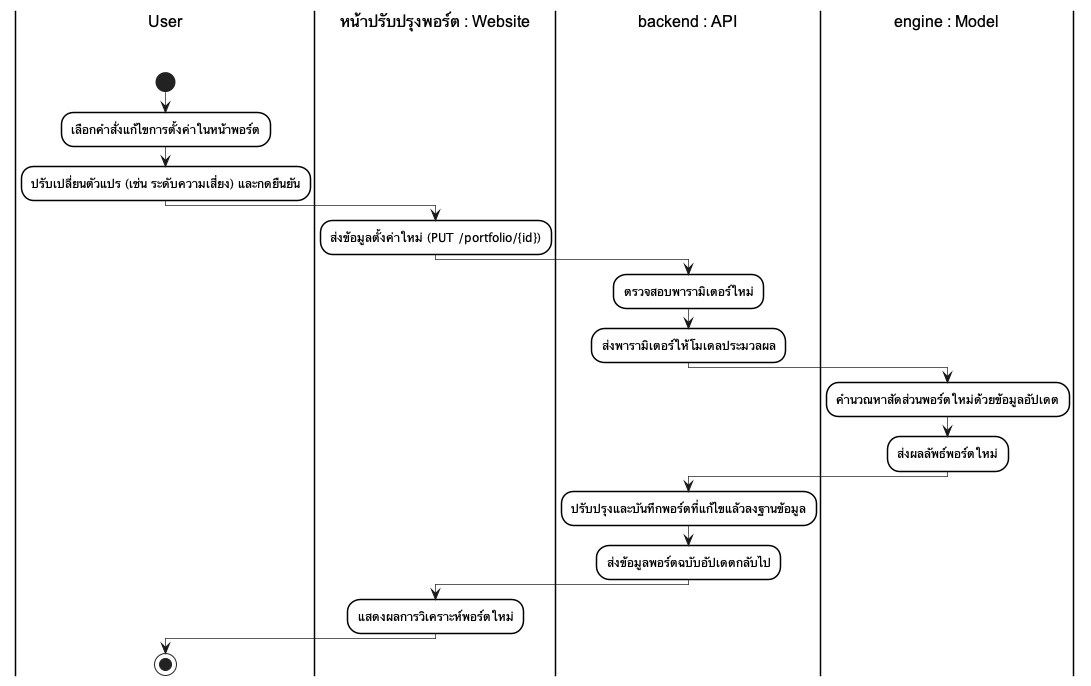
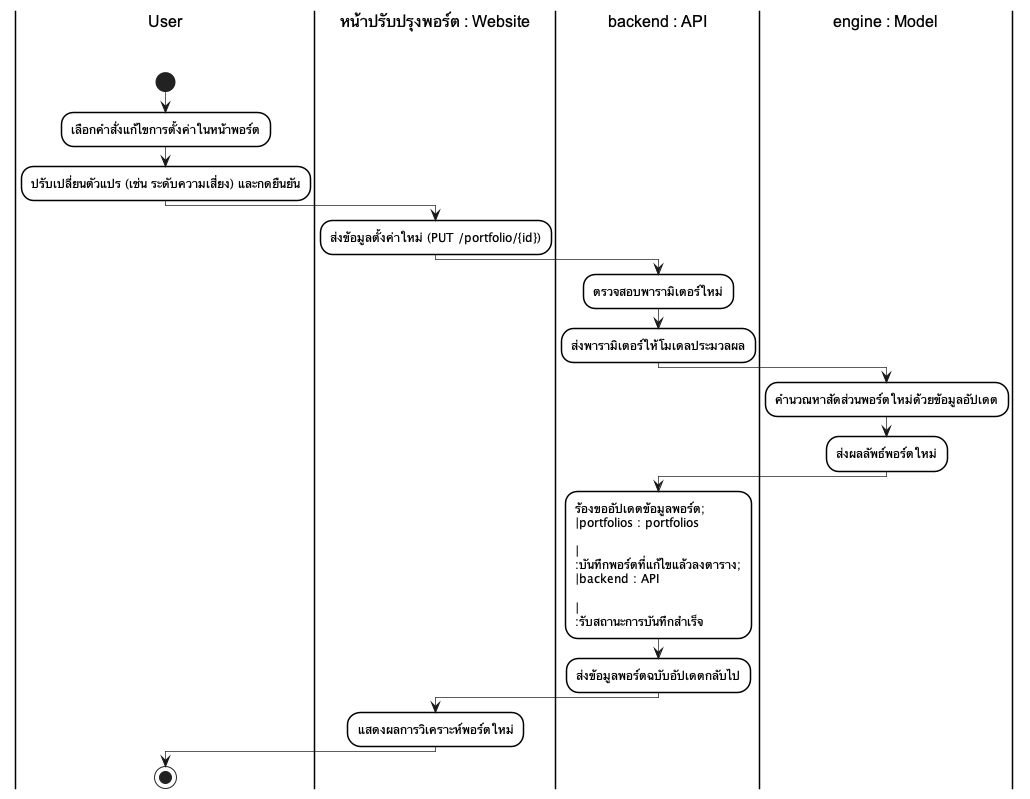
docs: Update diagrams to use specific DB table swimlanes and participants based on new schema

diff --git a/docs/diagrams/plantuml_source/plantuml_activity_diagrams.md b/docs/diagrams/plantuml_source/plantuml_activity_diagrams.md
@@ -274,7 +274,7 @@ start
 :แสดง Loading และส่งข้อมูลพอร์ตไปยัง API;
 |backend : API\n\n|
 :จัดสรรสัดส่วนหุ้นตามรูปแบบมาตรฐาน;
-:บันทึกพอร์ตใหม่ลงฐานข้อมูล;
+:ร้องขอบันทึกข้อมูล;\n|portfolios : portfolios\n\n|\n:บันทึกพอร์ตใหม่ลงตาราง;\n|backend : API\n\n|\n:รับสถานะการบันทึกสำเร็จ;
 :ส่งผลลัพธ์กลับไป;
 |หน้าเว็บ : Website\n\n|
 :เปลี่ยนหน้าไปยัง "หน้ารายละเอียดพอร์ต" (/dashboard/[id]);
@@ -320,7 +320,7 @@ start
 :คำนวณหาสัดส่วนพอร์ตใหม่ด้วยข้อมูลอัปเดต;
 :ส่งผลลัพธ์พอร์ตใหม่;
 |backend : API\n\n|
-:ปรับปรุงและบันทึกพอร์ตที่แก้ไขแล้วลงฐานข้อมูล;
+:ร้องขออัปเดตข้อมูลพอร์ต;\n|portfolios : portfolios\n\n|\n:บันทึกพอร์ตที่แก้ไขแล้วลงตาราง;\n|backend : API\n\n|\n:รับสถานะการบันทึกสำเร็จ;
 :ส่งข้อมูลพอร์ตฉบับอัปเดตกลับไป;
 |หน้าปรับปรุงพอร์ต : Website\n\n|
 :แสดงผลการวิเคราะห์พอร์ตใหม่;
@@ -358,7 +358,7 @@ start
 |หน้าสรุปผลพอร์ต : Website\n\n|
 :ร้องขอสร้างไฟล์ PDF (GET /portfolio/{id}/export-pdf);
 |backend : API\n\n|
-:ดึงข้อมูลจากฐานข้อมูลและประมวลผลเป็นไฟล์เอกสาร PDF;
+:ร้องขอข้อมูลโครงสร้างพอร์ต;\n|portfolios : portfolios\n\n|\n:ส่งข้อมูลพอร์ตและผลวิเคราะห์กลับ;\n|backend : API\n\n|\n:ประมวลผลข้อมูลและสร้างไฟล์เอกสาร PDF;
 :ส่งไฟล์ PDF กลับมา;
 |หน้าสรุปผลพอร์ต : Website\n\n|
 :แสดงหน้าต่างและเริ่มการดาวน์โหลดไฟล์;
@@ -397,7 +397,7 @@ start
 |หน้าเว็บ : Website\n\n|
 :ร้องขอประวัติพอร์ตทั้งหมดของผู้ใช้;
 |backend : API\n\n|
-:ดึงข้อมูลพอร์ตในอดีตจากฐานข้อมูล;
+:ร้องขอประวัติพอร์ตทั้งหมดของผู้ใช้;\n|portfolios : portfolios\n\n|\n:ค้นหาและส่งคืนรายการประวัติ;\n|backend : API\n\n|\n:จัดรูปแบบข้อมูลประวัติ;
 :ส่งรายการประวัติกลับไป;
 |หน้าเว็บ : Website\n\n|
 :แสดงส่วน "ประวัติพอร์ตการลงทุนของคุณ";
@@ -501,7 +501,7 @@ else (ผู้ดูแลระบบ)
     |User / Admin\n\n|
     :กรอกบัญชีผู้ดูแลระบบ (ID/Email) และรหัสผ่าน;
     |backend : API\n\n|
-    :ตรวจสอบข้อมูลบัญชีและสิทธิ์ Admin ในฐานข้อมูล;
+    :ตรวจสอบข้อมูลบัญชีและสิทธิ์ Admin;\n|users : users\n\n|\n:ยืนยันข้อมูลบัญชีและสิทธิ์ Admin;\n|backend : API\n\n|\n:รับผลการตรวจสอบ;
   backward:แสดงข้อความแจ้งเตือน และให้กรอกข้อมูลใหม่;
   repeat while (บัญชีและรหัสผ่านถูกต้อง?) is (ไม่ถูกต้อง) not (ถูกต้อง)
   :สร้าง Session Token สำหรับผู้ดูแลระบบ;
@@ -578,7 +578,7 @@ start
 |หน้าจอแอดมิน : Website\n\n|
 :ร้องขอรายการผู้ใช้ทั้งหมด (GET /admin/users);
 |backend : API\n\n|
-:ดึงข้อมูลบัญชีผู้ใช้งานทั้งหมดจากฐานข้อมูล;
+:ร้องขอรายการผู้ใช้งานทั้งหมด;\n|users : users\n\n|\n:ส่งข้อมูลบัญชีผู้ใช้งานทั้งหมดกลับ;\n|backend : API\n\n|\n:เตรียมข้อมูลสำหรับแสดงผล;
 :ส่งข้อมูลผู้ใช้งานกลับไป;
 |หน้าจอแอดมิน : Website\n\n|
 :แสดงรายการผู้ใช้งานทั้งหมด;
@@ -587,7 +587,7 @@ start
 |หน้าจอแอดมิน : Website\n\n|
 :ส่งข้อมูลอัปเดตบัญชี (PUT /admin/users/{id});
 |backend : API\n\n|
-:ตรวจสอบความถูกต้องและบันทึกการเปลี่ยนแปลง;
+:ส่งข้อมูลบัญชีที่แก้ไข;\n|users : users\n\n|\n:บันทึกการเปลี่ยนแปลงบัญชีลงตาราง;\n|backend : API\n\n|\n:รับสถานะการบันทึกสำเร็จ;
 :ส่งสถานะตอบรับสำเร็จ;
 |หน้าจอแอดมิน : Website\n\n|
 :แสดงผลข้อมูลบัญชีที่อัปเดตแล้วล่าสุด;
@@ -625,7 +625,7 @@ start
 |หน้าจอแอดมิน : Website\n\n|
 :ร้องขอข้อมูลสถิติภาพรวม (GET /admin/usage-summary);
 |backend : API\n\n|
-:ดึงข้อมูลสถิติประวัติการใช้งานและประเภทพอร์ตจากฐานข้อมูล;
+:ร้องขอข้อมูลพอร์ตทั้งหมด;\n|portfolios : portfolios\n\n|\n:ส่งข้อมูลพอร์ตทั้งหมดของผู้ใช้ระบบกลับ;\n|backend : API\n\n|\n:รวมข้อมูลที่ได้;
 :คำนวณและจัดกลุ่มข้อมูลสถิติเชิงลึก;
 :ส่งข้อมูลสถิติกลับไป;
 |หน้าจอแอดมิน : Website\n\n|
@@ -666,7 +666,7 @@ start
 |หน้าจอแอดมิน : Website\n\n|
 :ร้องขอรายการสินทรัพย์ SET50 (GET /admin/assets);
 |backend : API\n\n|
-:ดึงข้อมูลสินทรัพย์ SET50 จากฐานข้อมูล;
+:ร้องขอรายการสินทรัพย์ SET50;\n|assets : assets\n\n|\n:ส่งข้อมูลสินทรัพย์กลับ;\n|backend : API\n\n|\n:เตรียมรายการสินทรัพย์;
 :ส่งรายการสินทรัพย์กลับมา;
 |หน้าจอแอดมิน : Website\n\n|
 :แสดงรายการสินทรัพย์ SET50;
@@ -675,7 +675,7 @@ start
 |หน้าจอแอดมิน : Website\n\n|
 :ส่งข้อมูลสินทรัพย์ที่ปรับปรุงใหม่ (POST/PUT/DELETE /admin/assets);
 |backend : API\n\n|
-:ตรวจสอบความถูกต้องและอัปเดตข้อมูลสินทรัพย์ลงฐานข้อมูล;
+:ร้องขออัปเดตข้อมูล;\n|assets : assets\n\n|\n:อัปเดตข้อมูลสินทรัพย์ลงตาราง;\n|backend : API\n\n|\n:รับสถานะการอัปเดตสำเร็จ;
 :ส่งสถานะตอบรับสำเร็จ;
 |หน้าจอแอดมิน : Website\n\n|
 :แสดงรายการสินทรัพย์ SET50 ล่าสุด;

diff --git a/docs/data_dictionary.md b/docs/data_dictionary.md
@@ -14,7 +14,26 @@ Foreign Key     : -
 **ตารางที่ 3.15 Data Dictionary : users**
 
 | Field Name | Description | Data Type | Data Size | Key |
+| :
+---
+
+Table code name : 02  
+Table name      : assets  
+Description     : เก็บข้อมูลหลักทรัพย์ในกลุ่มดัชนี SET50 ที่เปิดให้เลือกลงทุน  
+Primary Key     : ticker  
+Foreign Key     : -  
+อายุการใช้งาน     : ตลอดการใช้งาน  
+
+**ตารางที่ 3.16 Data Dictionary : assets**
+
+| Field Name | Description | Data Type | Data Size | Key |
 | :--- | :--- | :--- | :--- | :--- |
+| ticker | สัญลักษณ์ย่อของหุ้น (เช่น PTT, AOT) | VARCHAR | 10 | PK |
+| market_cap | มูลค่าตามราคาตลาดของหลักทรัพย์ | BIGINT | - | |
+| is_active | สถานะว่ายังเปิดให้เลือกลงทุนหรือไม่ (True/False) | BOOLEAN | - | |
+| created_at | วันเวลาที่เพิ่มข้อมูลหุ้นเข้าระบบ | TIMESTAMP | - | |
+| updated_at | วันเวลาที่มีการแก้ไขข้อมูลหุ้นล่าสุด | TIMESTAMP | - | |
+--- | :--- | :--- | :--- | :--- |
 | clerk_id | รหัสอ้างอิงยืนยันตัวตนจาก Clerk Auth | VARCHAR | 255 | PK |
 | email | อีเมลของผู้ใช้งาน | VARCHAR | 255 | |
 | full_name | ชื่อ-นามสกุลของผู้ใช้งาน | VARCHAR | 255 | |
@@ -24,14 +43,14 @@ Foreign Key     : -
 
 ---
 
-Table code name : 02  
+Table code name : 05  
 Table name      : portfolios  
 Description     : เก็บข้อมูลพอร์ตการลงทุนหลักที่ AI (Genetic Algorithm & Black-Litterman) สร้างขึ้นให้ผู้ใช้  
 Primary Key     : id  
 Foreign Key     : clerk_id (อ้างอิงตาราง users)  
 อายุการใช้งาน     : จนกว่าผู้ใช้จะลบพอร์ตการลงทุนทิ้ง  
 
-**ตารางที่ 3.16 Data Dictionary : portfolios**
+**ตารางที่ 3.17 Data Dictionary : portfolios**
 
 | Field Name | Description | Data Type | Data Size | Key |
 | :--- | :--- | :--- | :--- | :--- |
@@ -48,14 +67,14 @@ Foreign Key     : clerk_id (อ้างอิงตาราง users)
 
 ---
 
-Table code name : 03  
+Table code name : 05  
 Table name      : portfolio_assets  
 Description     : เก็บสัดส่วนการลงทุนของสินทรัพย์ (หุ้นรายตัว) ที่แตกออกมาจากแต่ละพอร์ตโฟลิโอ (1st Normal Form)  
 Primary Key     : id  
 Foreign Key     : portfolio_id (อ้างอิงตาราง portfolios)  
 อายุการใช้งาน     : จนกว่าผู้ใช้จะลบพอร์ตการลงทุนทิ้ง  
 
-**ตารางที่ 3.17 Data Dictionary : portfolio_assets**
+**ตารางที่ 3.18 Data Dictionary : portfolio_assets**
 
 | Field Name | Description | Data Type | Data Size | Key |
 | :--- | :--- | :--- | :--- | :--- |
@@ -68,14 +87,14 @@ Foreign Key     : portfolio_id (อ้างอิงตาราง portfolios)
 
 ---
 
-Table code name : 04  
+Table code name : 05  
 Table name      : stock_views  
 Description     : เก็บข้อมูลมุมมองการลงทุนรายตัว (Views) ของผู้ใช้สำหรับการประมวลผลโมเดล Black-Litterman  
 Primary Key     : id  
 Foreign Key     : portfolio_id (อ้างอิงตาราง portfolios)  
 อายุการใช้งาน     : มีการปรับปรุงใหม่ทุกครั้งที่ผู้ใช้เปลี่ยนแปลงมุมมองหรือสร้างพอร์ต  
 
-**ตารางที่ 3.18 Data Dictionary : stock_views**
+**ตารางที่ 3.19 Data Dictionary : stock_views**
 
 | Field Name | Description | Data Type | Data Size | Key |
 | :--- | :--- | :--- | :--- | :--- |

diff --git a/docs/diagrams/plantuml_source/plantuml_sequence_diagrams.md b/docs/diagrams/plantuml_source/plantuml_sequence_diagrams.md
@@ -114,7 +114,7 @@ skinparam sequenceMessageAlign center
 participant "user : User" as User
 participant "frontend : Website" as Frontend
 participant "backend : API" as Backend
-participant "database : DB" as DB
+participant "users : users" as DB
 
 |||
 activate User
@@ -268,7 +268,7 @@ participant "user : User" as User
 participant "frontend : Website" as Frontend
 participant "backend : API" as Backend
 participant "engine : Model" as Model
-participant "database : DB" as DB
+participant "portfolios : portfolios" as DB
 
 |||
 activate User
@@ -326,7 +326,7 @@ skinparam sequenceMessageAlign center
 participant "user : User" as User
 participant "frontend : Website" as Frontend
 participant "backend : API" as Backend
-participant "database : DB" as DB
+participant "portfolios : portfolios" as DB
 
 |||
 activate User
@@ -380,7 +380,7 @@ participant "user : User" as User
 participant "frontend : Website" as Frontend
 participant "backend : API" as Backend
 participant "engine : Model" as Model
-participant "database : DB" as DB
+participant "portfolios : portfolios" as DB
 
 |||
 activate User
@@ -432,7 +432,7 @@ skinparam sequenceMessageAlign center
 participant "user : User" as User
 participant "frontend : Website" as Frontend
 participant "backend : API" as Backend
-participant "database : DB" as DB
+participant "portfolios : portfolios" as DB
 
 |||
 activate User
@@ -479,7 +479,7 @@ skinparam sequenceMessageAlign center
 participant "user : User" as User
 participant "frontend : Website" as Frontend
 participant "backend : API" as Backend
-participant "database : DB" as DB
+participant "portfolios : portfolios" as DB
 
 |||
 activate User
@@ -566,7 +566,7 @@ participant "actor : User" as User
 participant "frontend : Website" as Frontend
 participant "auth : Clerk" as Clerk
 participant "backend : API" as Backend
-participant "database : DB" as DB
+participant "users : users" as DB
 
 |||
 activate User
@@ -699,7 +699,7 @@ skinparam sequenceMessageAlign center
 participant "admin : Admin" as Admin
 participant "frontend : Website" as Frontend
 participant "backend : API" as Backend
-participant "database : DB" as DB
+participant "users : users" as DB
 
 |||
 activate Admin
@@ -755,7 +755,7 @@ skinparam sequenceMessageAlign center
 participant "admin : Admin" as Admin
 participant "frontend : Website" as Frontend
 participant "backend : API" as Backend
-participant "database : DB" as DB
+participant "portfolios : portfolios" as DB
 
 |||
 activate Admin
@@ -802,7 +802,7 @@ skinparam sequenceMessageAlign center
 participant "admin : Admin" as Admin
 participant "frontend : Website" as Frontend
 participant "backend : API" as Backend
-participant "database : DB" as DB
+participant "assets : assets" as DB
 
 |||
 activate Admin
